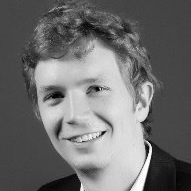
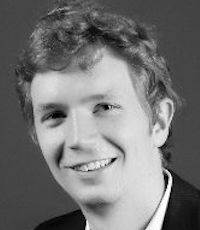
fixed photos size and added NML group photos

diff --git a/_site/people/index.html b/_site/people/index.html
@@ -240,7 +240,7 @@ s.setAttribute('data-timestamp', +new Date());
       <p class="list-post-title">
         
         
-        <a href="http://www.naokimasuda.net/"><img width="200" height="230" src="/images/people/naoki_masuda.jpeg" /></a>
+        <a href="http://www.naokimasuda.net/"><img width="200" height="230" src="/images/people/naoki_masuda.jpg" /></a>
         
         <a class="name" href="http://www.naokimasuda.net/">Naoki Masuda</a>
         
@@ -345,7 +345,7 @@ s.setAttribute('data-timestamp', +new Date());
       <p class="list-post-title">
         
         
-        <a href="/people/CH_amelia_burroughs/index.html"><img width="200" height="230" src="/images/people/Amelia_Burroughs.jpg" /></a>
+        <a href="/people/CH_amelia_burroughs/index.html"><img width="200" height="230" src="/images/people/Amelia_Burroughs.png" /></a>
         
         <a class="name" href="/people/CH_amelia_burroughs/index.html">Amelia Burroughs</a>
         
@@ -532,7 +532,7 @@ s.setAttribute('data-timestamp', +new Date());
       <p class="list-post-title">
         
         
-        <a href=""><img width="200" height="230" src="http://evansheline.com/wp-content/uploads/2011/02/facebook-Storm-Trooper.jpg" /></a>
+        <a href="/people/RPC_david_jia/index.html"><img width="200" height="230" src="/images/people/DavidJia.png" /></a>
         
         <a class="name" href="/people/RPC_david_jia/index.html">David Jia</a>
         
@@ -547,7 +547,7 @@ s.setAttribute('data-timestamp', +new Date());
       <p class="list-post-title">
         
         
-        <a href=""><img width="200" height="230" src="http://evansheline.com/wp-content/uploads/2011/02/facebook-Storm-Trooper.jpg" /></a>
+        <a href="/people/RPC_milton_lleramontero/index.html"><img width="200" height="230" src="/images/people/Milton_LleraMontero.png" /></a>
         
         <a class="name" href="/people/RPC_milton_lleramontero/index.html">Milton Llera-Montero</a>
         
@@ -562,7 +562,7 @@ s.setAttribute('data-timestamp', +new Date());
       <p class="list-post-title">
         
         
-        <a href=""><img width="200" height="230" src="http://evansheline.com/wp-content/uploads/2011/02/facebook-Storm-Trooper.jpg" /></a>
+        <a href="/people/RPC_raymond_chua/index.html"><img width="200" height="230" src="/images/people/Raymond_Chua.png" /></a>
         
         <a class="name" href="/people/RPC_raymond_chua/index.html">Raymond Chua</a>
         
@@ -577,7 +577,7 @@ s.setAttribute('data-timestamp', +new Date());
       <p class="list-post-title">
         
         
-        <a href=""><img width="200" height="230" src="http://evansheline.com/wp-content/uploads/2011/02/facebook-Storm-Trooper.jpg" /></a>
+        <a href="/people/RPC_annelene_sax/index.html"><img width="200" height="230" src="/images/people/AnneLene_Sax.png" /></a>
         
         <a class="name" href="/people/RPC_annelene_sax/index.html">Anne-Lene Sax</a>
         

diff --git a/_site/research/index.html b/_site/research/index.html
@@ -292,7 +292,7 @@ Bristol, BS8 1UB, England, United Kingdom<br>-->
 
 <p><a href="http://www.lepora.com">Nathan Lepora group</a> does research at the intersection between robotics, sensory neuroscience and machine learning. The group is also affiliated with the <a href="https://www.bristolroboticslab.com/">Bristol Robotics Lab</a>.</p>
 
-<p><strong><em>keywords</em></strong>: Tactile robotics, machine learning, robotics and neuroscience.</p>
+<p><strong><em>keywords</em></strong>: Tactile robotics, decision making and machine learning.</p>
 </header>      
         <hr />      
 		</p>
@@ -304,9 +304,9 @@ Bristol, BS8 1UB, England, United Kingdom<br>-->
     <div class="list-item-people">
       <p class="list-post-title">
       	<!--
-        <a href="/people/naokimasuda/index.html"><img width="200" height="230" src="/images/people/naoki_masuda.jpeg"></a>
+        <a href="/people/naokimasuda/index.html"><img width="200" height="230" src="/images/people/naoki_masuda.jpg"></a>
         -->
-        <a href="http://www.naokimasuda.net/"><img width="15%" height="15%" src="/images/people/naoki_masuda.jpeg" /></a>
+        <a href="http://www.naokimasuda.net/"><img width="15%" height="15%" src="/images/people/naoki_masuda.jpg" /></a>
             
                   <a class="name" href="http://www.naokimasuda.net/"><div style="text-align: left;"><font size="+0"><b>Naoki Masuda group</b></font></div></a>
             

diff --git a/_site/people/natanlepora/index.html b/_site/people/natanlepora/index.html
@@ -132,7 +132,7 @@ Bristol, BS8 1UB, England, United Kingdom<br>-->
 
 <p><a href="http://www.lepora.com">Nathan Lepora group</a> does research at the intersection between robotics, sensory neuroscience and machine learning. The group is also affiliated with the <a href="https://www.bristolroboticslab.com/">Bristol Robotics Lab</a>.</p>
 
-<p><strong><em>keywords</em></strong>: Tactile robotics, machine learning, robotics and neuroscience.</p>
+<p><strong><em>keywords</em></strong>: Tactile robotics, decision making and machine learning.</p>
 
 </div>
 

diff --git a/_site/people/RPC_milton_lleramontero/index.html b/_site/people/RPC_milton_lleramontero/index.html
@@ -114,7 +114,7 @@ s.setAttribute('data-timestamp', +new Date());
 
     <div class="container content page">
   <h3 class="page-title">Milton Llera-Montero</h3>
-  <p><img width="250" src="/images/people/" data-action="zoom" /></p>
+  <p><img width="250" src="/images/people/Milton_LleraMontero.png" data-action="zoom" /></p>
 
 </div>
 

diff --git a/_site/people/RPC_annelene_sax/index.html b/_site/people/RPC_annelene_sax/index.html
@@ -114,7 +114,7 @@ s.setAttribute('data-timestamp', +new Date());
 
     <div class="container content page">
   <h3 class="page-title">Anne-Lene Sax</h3>
-  <p><img width="250" src="/images/people/" data-action="zoom" /></p>
+  <p><img width="250" src="/images/people/AnneLene_Sax.png" data-action="zoom" /></p>
 
 </div>
 

diff --git a/_site/people/RPC_raymond_chua/index.html b/_site/people/RPC_raymond_chua/index.html
@@ -114,7 +114,7 @@ s.setAttribute('data-timestamp', +new Date());
 
     <div class="container content page">
   <h3 class="page-title">Raymond Chua</h3>
-  <p><img width="250" src="/images/people/" data-action="zoom" /></p>
+  <p><img width="250" src="/images/people/Raymond_Chua.png" data-action="zoom" /></p>
 
 </div>
 

diff --git a/_site/people/RPC_david_jia/index.html b/_site/people/RPC_david_jia/index.html
@@ -114,7 +114,7 @@ s.setAttribute('data-timestamp', +new Date());
 
     <div class="container content page">
   <h3 class="page-title">David Jia</h3>
-  <p><img width="250" src="/images/people/" data-action="zoom" /></p>
+  <p><img width="250" src="/images/people/DavidJia.png" data-action="zoom" /></p>
 
 </div>
 

diff --git a/_people/natanlepora.md b/_people/natanlepora.md
@@ -21,4 +21,4 @@ Bristol, BS8 1UB, England, United Kingdom<br>-->
 
 [Nathan Lepora group](http://www.lepora.com) does research at the intersection between robotics, sensory neuroscience and machine learning. The group is also affiliated with the [Bristol Robotics Lab](https://www.bristolroboticslab.com/).
 
-***keywords***: Tactile robotics, machine learning, robotics and neuroscience.
+***keywords***: Tactile robotics, decision making and machine learning.

diff --git a/_people/RPC_milton_lleramontero.md b/_people/RPC_milton_lleramontero.md
@@ -1,7 +1,7 @@
 ---
 name: Milton Llera-Montero
 position: gradstudent
-avatar: 
+avatar: Milton_LleraMontero.png
 joined: 3_2018
 affiliation: Neural & machine learning group<br>[w/ Jeff Bowers]
 ---

diff --git a/_people/RPC_raymond_chua.md b/_people/RPC_raymond_chua.md
@@ -1,7 +1,7 @@
 ---
 name: Raymond Chua
 position: gradstudent
-avatar: 
+avatar: Raymond_Chua.png
 joined: 3_2018
 affiliation: Neural & machine learning group<br>[w/ Doina Precup (McGill)]
 ---

diff --git a/_people/RPC_annelene_sax.md b/_people/RPC_annelene_sax.md
@@ -1,7 +1,7 @@
 ---
 name: Anne-Lene Sax
 position: gradstudent
-avatar: 
+avatar: AnneLene_Sax.png
 joined: 3_2018
 affiliation: Neural & machine learning group<br>[w/ Roland Baddeley]
 ---

diff --git a/_people/RPC_david_jia.md b/_people/RPC_david_jia.md
@@ -1,7 +1,7 @@
 ---
 name: David Jia
 position: gradstudent
-avatar: 
+avatar: DavidJia.png
 joined: 3_2015
 affiliation: Neural & machine learning group<br>[w/ Tim Vogels (Oxford)]
 ---
